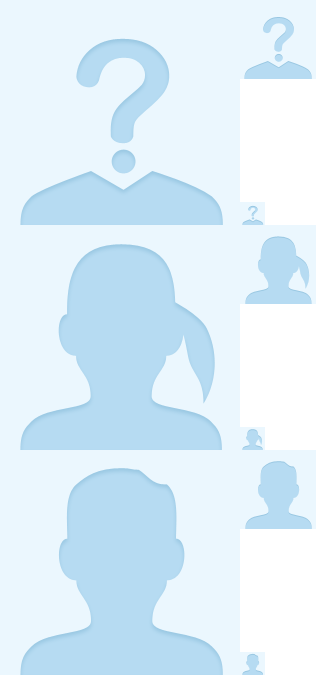
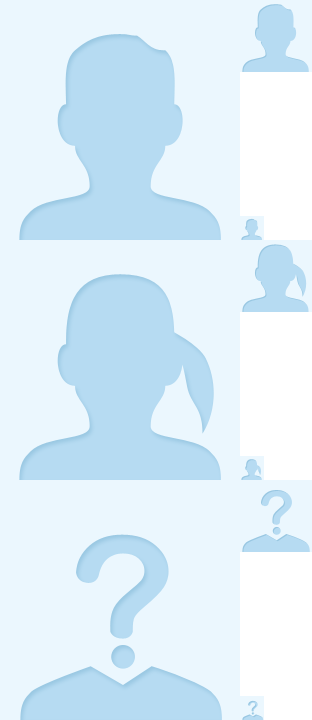
фиксы

diff --git a/site/frontend/www/stylesheets/common.css b/site/frontend/www/stylesheets/common.css
@@ -114,17 +114,17 @@ a.info {display:inline-block;width:13px;height:13px;background:url(../images/com
 :-moz-placeholder {color: grey !important;font-weight: normal !important;}
 .placeholder { color: grey !important;font-weight: normal !important;}
 
-.ava {width:79px;height:75px;background:url(../images/avatar.png) no-repeat -240px 0px;display:block;}
-.ava.female {background-position:-240px -225px;}
-.ava.male {background-position:-240px -450px;}
+.ava {width:72px;height:72px;background:url(../images/avatar.png) no-repeat -240px -480px;display:block;}
+.ava.female {background-position:-240px -240;}
+.ava.male {background-position:-240px -00px;}
 
-.ava.big {width:240px;height:225px;background-position:0 0;}
-.ava.big.female {background-position:0 -225px;}
-.ava.big.male {background-position:0 -450px;}
+.ava.big {width:240px;height:240px;background-position:0 -480px;}
+.ava.big.female {background-position:0 -240px;}
+.ava.big.male {background-position:0 0;}
 
-.ava.small {width:25px;height:23px;background-position:-240px -202px;}
-.ava.small.female {background-position:-240px -427px;}
-.ava.small.male {background-position:-240px -652px;}
+.ava.small {width:24px;height:24px;background-position:-240px -696px;}
+.ava.small.female {background-position:-240px -456px;}
+.ava.small.male {background-position:-240px -216px;}
 
 .ava img {display:block;}
 
@@ -206,7 +206,7 @@ a.info {display:inline-block;width:13px;height:13px;background:url(../images/com
 /* errors */
 
 .error input[type=text], .error input[type=password], .error textarea, .error .chzn-single {border:1px solid #ff6767 !important;}
-.errorMessage, .errorSummary {color:#fe5757 !important;font-size:11px !important;line-height:normal !important;padding:5px 0;overflow:hidden;clear:both;}
+.errorMessage, .errorSummary {color:#fe5757 !important;font-size:11px !important;line-height:normal !important;padding:5px 0;overflow:hidden;}
 
 
 /* errors */
@@ -380,7 +380,7 @@ a.bot-str { background: url(../images/str-bot.png) no-repeat; background-positio
 .popup .popup-close {position:absolute;top:0px;right:0px;background:url(../images/bg_popup_close.gif) no-repeat right;padding-right:25px;font:11px/18px tahoma, arial, sans-serif;color:#575757;text-decoration:none;}
 .popup .popup-title {color:#0281b0;font:bold 25px arial, sans-serif;text-align:center;margin-bottom:12px;}
 .popup .form .row {width:344px;}
-.popup .form input[type=text], .popup .form input[type=password] {}
+.popup .form input[type=text], .popup .form input[type=password] {width:340px;}
 .popup .form {overflow:hidden;}
 .popup .bottom {text-align:right;padding-top:8px;border-top:1px solid #caf3f8;margin-top:20px;}
 .popup .bottom .btn {margin:0 5px;}
@@ -1485,9 +1485,11 @@ div.scrollbarpaper-drag {/*css3*/ -moz-border-radius:3px;-webkit-border-radius:3
 #content .club-topics-list {background:#f3e7fe;margin-bottom:20px;padding:10px 15px;}
 #content .club-topics-list ul {list-style:none;}
 #content .club-topics-list ul li {margin:6px 0;overflow:hidden;}
-#content .club-topics-list ul li a {display:block;padding:2px 5px;color:#885eb2;font-weight:bold;font-size:13px;line-height:1.2;overflow:hidden;}
+#content .club-topics-list ul li .in {padding:2px 5px;overflow:hidden;}
+#content .club-topics-list ul li a {color:#885eb2;font-weight:bold;font-size:13px;line-height:1.2;}
 #content .club-topics-list ul li a:hover {text-decoration:none;}
-#content .club-topics-list ul li.active a {background:#fefdcd;text-decoration:none;}
+#content .club-topics-list ul li.active .in {background:#fefdcd;}
+#content .club-topics-list ul li.active .in a {text-decoration:none;}
 #content .club-topics-list .edit {width:20px;height:22px;background:#ffcdcd !important;position:relative;float:right;visibility:hidden;margin-left:5px;}
 #content .club-topics-list .edit .icon {display:block;width:14px;height:18px;background:url(../images/common.png) no-repeat -341px -136px;margin:2px auto 0;}
 #content .club-topics-list  ul li:hover .edit {visibility:visible;}
@@ -1497,7 +1499,7 @@ div.scrollbarpaper-drag {/*css3*/ -moz-border-radius:3px;-webkit-border-radius:3
 #content .club-topics-list .add {display:block;width:33px;height:33px;background:#d8f3f7;overflow:hidden;}
 #content .club-topics-list .add .icon {display:block;width:15px;height:15px;background:url(../images/common.png) no-repeat -341px -156px;margin:9px auto 0;}
 
-#content .club-topics-list .count {color:#6d6d6d;text-decoration:none;font-size:10px;font-family:tahoma, arial, helvetica, sans-serif;font-weight:normal;position:relative;top:-2px;margin-left:5px;}
+#content .club-topics-list .count {color:#6d6d6d;text-decoration:none;font-size:10px;font-family:tahoma, arial, helvetica, sans-serif;font-weight:normal;position:relative;top:-2px;}
 
 #content .club-topics-all-link {background:#cdecff;padding:12px 20px;margin-bottom:2px;font-size:13px;}
 #content .club-topics-all-link .count {font-size:20px;color:#6d6d6d;font-family:tahoma, arial, helvetica, sans-serif;position:relative;top:-2px;}

diff --git a/site/frontend/www/html/social/article_2.0.html b/site/frontend/www/html/social/article_2.0.html
@@ -586,20 +586,34 @@
 						
 					<div class="club-topics-list">
 						<ul>
-							<li><a href="" class="edit"><i class="icon"></i></a><a href="">Правила<span class="count">2</span></a></li>
-							<li><a href="" class="edit"><i class="icon"></i></a><a href="">Видеотека сообщества<span class="count">2</span></a></li>
-							<li><a href="" class="edit"><i class="icon"></i></a><a href="">Конкурс<span class="count">2</span></a></li>
-							<li class="active"><a href="" class="edit"><i class="icon"></i></a><a href="">Опросы</a></li>
-							<li><a href="" class="edit"><i class="icon"></i></a><a href="">Офф</a></li>
-							<li class="active"><a href="" class="edit"><i class="icon"></i></a><a href="">Психологическая готовность<span class="count">2</span></a></li>
-							<li><a href="" class="edit"><i class="icon"></i></a><a href="">С чего и когда начать?</a></li>
-							<li class="active"><a href="">Детская комната</a></li>
-							<li><a href="" class="edit"><i class="icon"></i></a><a href="">Правила сообщества<span class="count">2</span></a></li>
-							<li><a href="" class="edit"><i class="icon"></i></a><a href="">Видеотека сообщества</a></li>
-							<li><a href="" class="edit"><i class="icon"></i></a><a href="">Конкурс<span class="count">2</span></a></li>
-							<li><a href="" class="edit"><i class="icon"></i></a><a href="">Опросы</a></li>
-							<li><a href="" class="edit"><i class="icon"></i></a><a href="">Офф</a></li>
-							<li><a href="" class="edit"><i class="icon"></i></a><a href="">Психологическая готовность</a></li>
+							<li>
+								<a href="" class="edit"><i class="icon"></i></a>
+								<div class="in">
+									<a href="">Правила</a>
+									<span class="count">2</span>
+								</div>
+							</li>
+							<li class="active">
+								<a href="" class="edit"><i class="icon"></i></a>
+								<div class="in">
+									<a href="">Видеотека сообщества</a>
+									<span class="count">22</span>
+								</div>
+							</li>
+							<li>
+								<a href="" class="edit"><i class="icon"></i></a>
+								<div class="in">
+									<a href="">Психологическая готовность</a>
+									<span class="count">222</span>
+								</div>
+							</li>
+							<li>
+								<a href="" class="edit"><i class="icon"></i></a>
+								<div class="in">
+									<a href="">Правила</a>
+									<span class="count">2</span>
+								</div>
+							</li>
 						</ul>
 						<form>
 							<input type="text" />

diff --git a/site/frontend/www/html/store/store_products.html b/site/frontend/www/html/store/store_products.html
@@ -126,7 +126,7 @@
 				<div class="main">
 					<div class="main-in">
 						
-						<div class="a-right fast-sort">
+						<div class="a-right fast-sort with-search">
 							Сортировать по:<br/>
 							<select class="chzn">
 								<option selected="selected">Самым продаваемым</option>

diff --git a/site/frontend/www/stylesheets/user.css b/site/frontend/www/stylesheets/user.css
@@ -111,7 +111,7 @@
 
 
 
-#user .user-friends {padding-bottom:20px;padding-left:15px;}
+#user .user-friends {padding-bottom:20px;padding-left:15px;margin-top:-36px;}
 #user .user-friends ul {list-style:none;}
 #user .user-friends ul li {float:left;margin:0 15px 15px 0;}
 #user .user-friends ul li img {display:block;}
